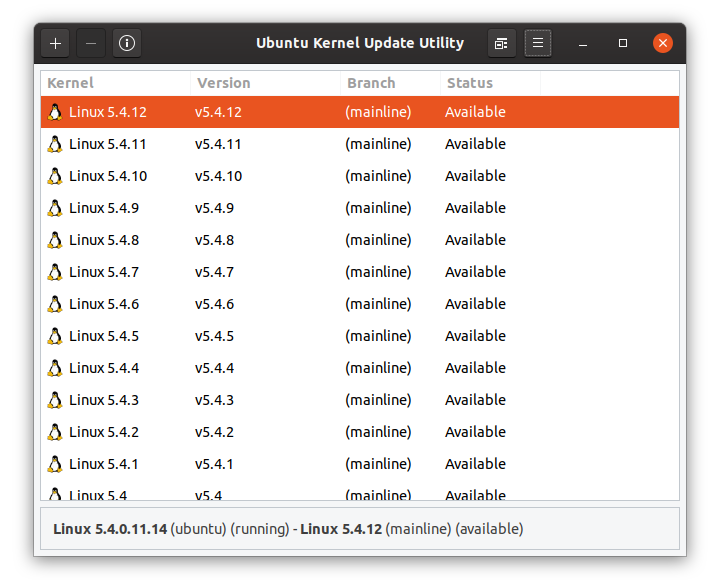
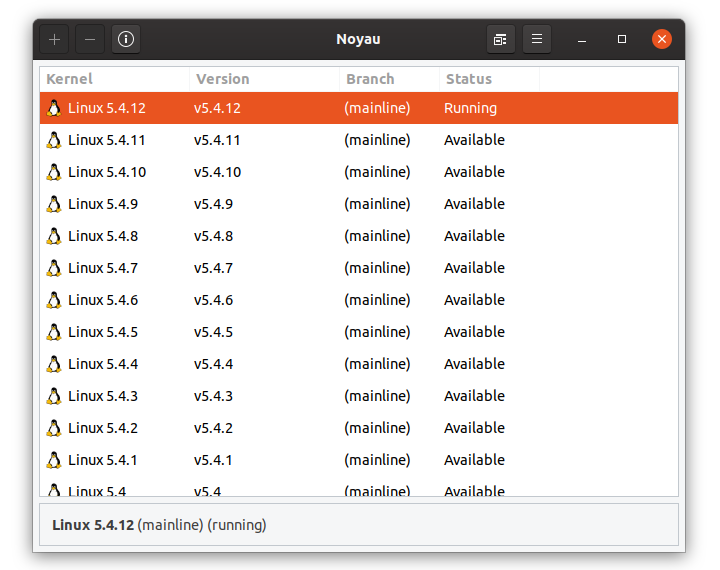
update project identity

diff --git a/meson/post_install.py b/meson/post_install.py
@@ -9,7 +9,7 @@ destdir = environ.get('DESTDIR', '')
 
 if not destdir:
     #print('Installing application icon...')
-    #call(['xdg-icon-resource', 'install', '--size', '48', path.join(datadir, 'ukuu', 'images', 'ukuu.png'), 'ukuu'])
+    #call(['xdg-icon-resource', 'install', '--size', '48', path.join(datadir, 'noyau', 'images', 'noyau.png'), 'noyau'])
 
     print('Updating icon cache...')
     call(['gtk-update-icon-cache', '-qtf', path.join(datadir, 'icons', 'hicolor')])

diff --git a/README.md b/README.md
@@ -1,9 +1,9 @@
 <p align="center">
-    <img width="64" height="64" src="data/images/ukuu.png">
+    <img width="64" height="64" src="data/images/noyau.png">
 </p>
 
 <h1 align="center">
-    <b>Ubuntu Kernel Update Utility</b>
+    <b>Noyau</b>
 </h1>
 
 <p align="center">
@@ -13,12 +13,12 @@
 <br />
 
 <p align="center">
-    <img width="720" height="580" src="data/screenshots/main-ubuntu.png">
+    <img width="720" height="570" src="data/screenshots/main-ubuntu.png">
 </p>
 
 <br />
 
-[![CodeFactor](https://www.codefactor.io/repository/github/joshuadowding/ukuu/badge)](https://www.codefactor.io/repository/github/joshuadowding/ukuu)
+[![CodeFactor](https://www.codefactor.io/repository/github/joshuadowding/noyau/badge)](https://www.codefactor.io/repository/github/joshuadowding/noyau)
 
 
 <h2>Features</h2>
@@ -61,7 +61,7 @@
 <h3>Build Instructions</h3>
 
     sudo apt install valac meson libgtk-3-dev libgee-0.8-dev libjson-glib-dev libvte-2.91-dev libsoup2.4-dev
-    git clone https://github.com/joshuadowding/ukuu.git && cd ukuu
+    git clone https://github.com/joshuadowding/noyau.git && cd noyau
     meson build --prefix=/usr
     cd build && ninja
     sudo ninja install
